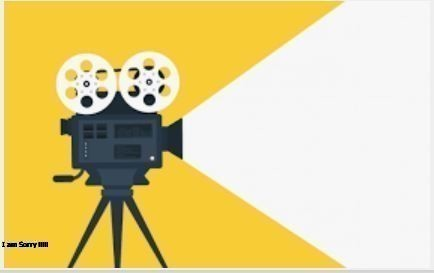
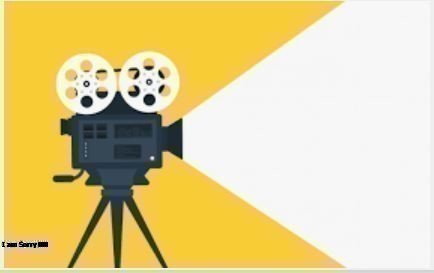
Update allowed hosts in settings for production deployment

diff --git a/moviereviews/settings.py b/moviereviews/settings.py
@@ -28,7 +28,7 @@ SECRET_KEY = 'django-insecure-@np_aid97w1o6_ihzw1nb_6#1p8nfwi+7nzggkl80wgbes7k=#
 # SECURITY WARNING: don't run with debug turned on in production!
 DEBUG = True
 
-ALLOWED_HOSTS = []
+ALLOWED_HOSTS = ['44.220.142.221']
 
 
 # Application definition
